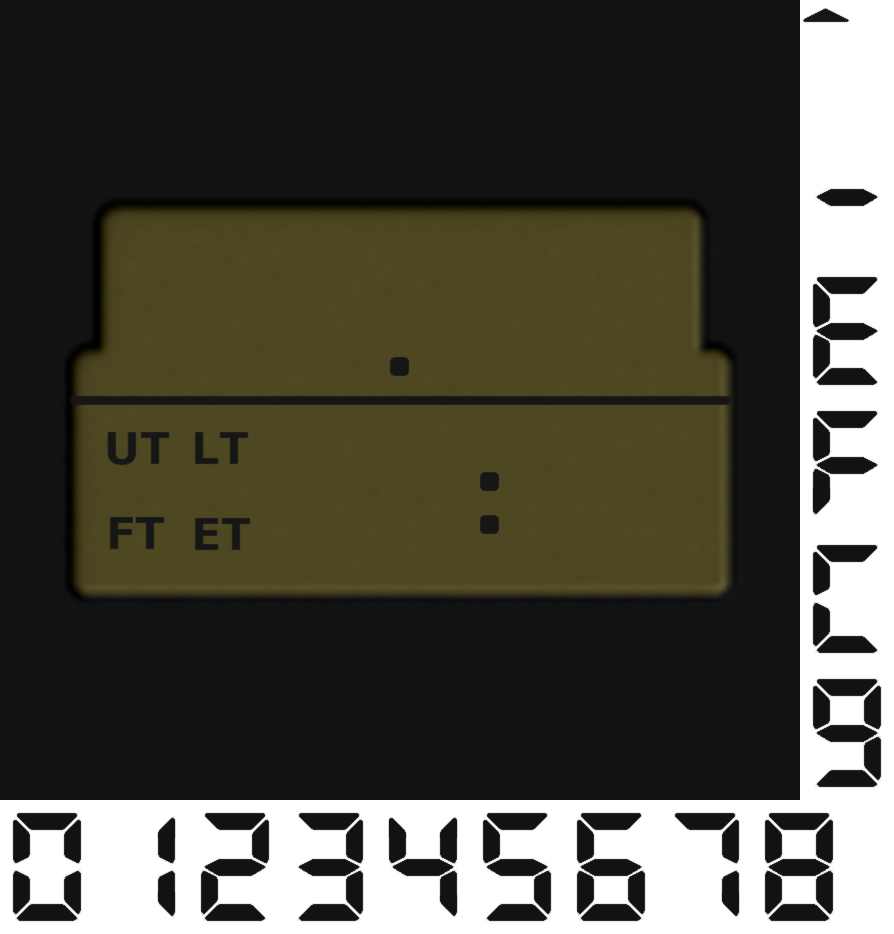
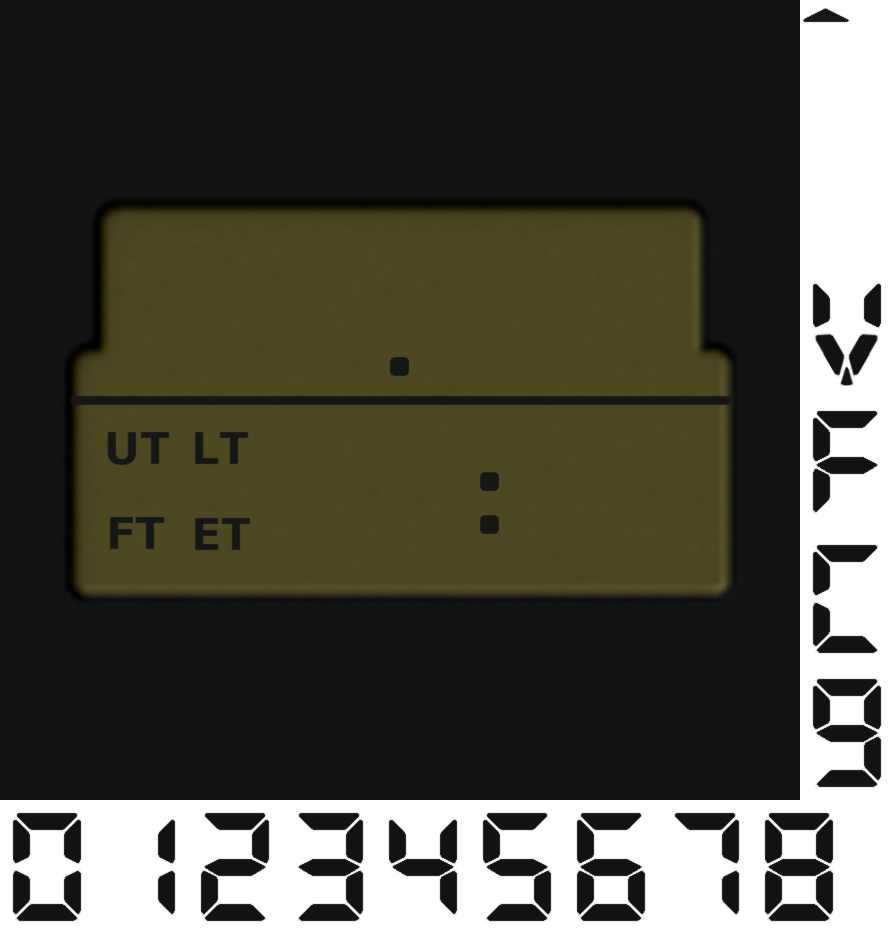
Fix battery voltage

Changed region(s): [[0.906, 0.2794, 0.9966, 0.4347], [0.906, 0.1863, 0.9966, 0.2484]]

diff --git a/instrument-panel/simvarDefs.cpp b/instrument-panel/simvarDefs.cpp
@@ -21,7 +21,7 @@ const char* SimVarDefs[][2] = {
     { "Zulu Time", "seconds" },
     { "Local Time", "seconds" },
     { "Absolute Time", "seconds" },
-    { "Electrical Battery Bus Voltage", "volts" },
+    { "Electrical Main Bus Voltage", "volts" },
     { "Ambient Temperature", "celsius" },
     { "General Eng Rpm:1", "rpm" },
     { "Eng Rpm Animation Percent:1", "percent" },
